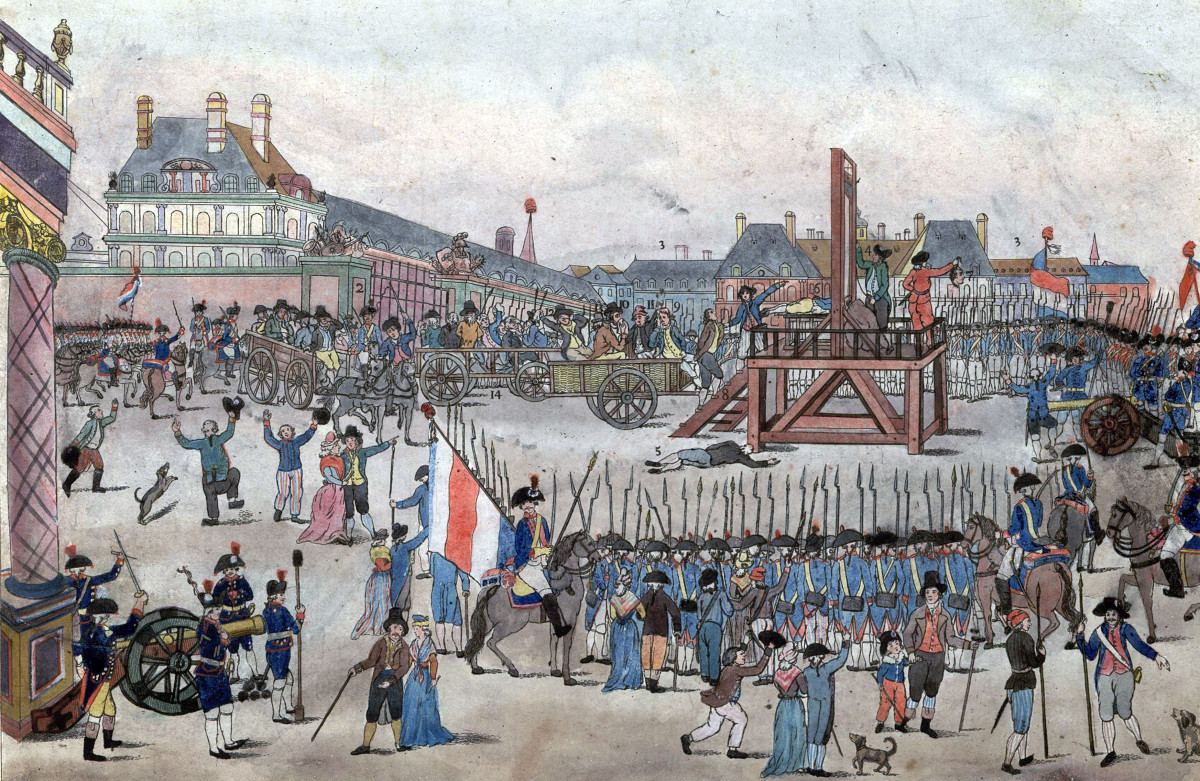
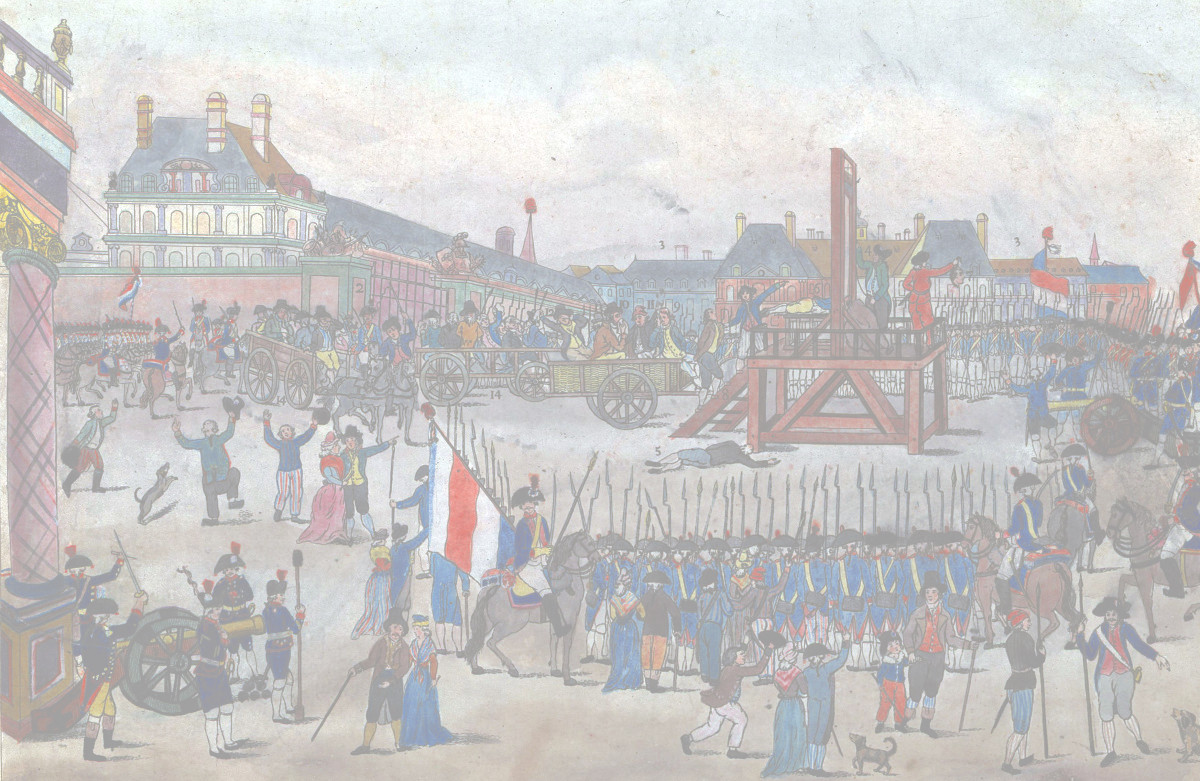
styling, timers, hide/show, html updates

diff --git a/index.html b/index.html
@@ -4,7 +4,7 @@
     <meta charset="UTF-8">
     <meta name="viewport" content="width=device-width, initial-scale=1.0">
     <meta http-equiv="X-UA-Compatible" content="ie=edge">
-    <link rel="stylesheet" href="assets/css/reset.css">
+    <!-- <link rel="stylesheet" href="assets/css/reset.css"> -->
     <link rel="stylesheet" href="assets/css/style.css">
     <title>Trivia Game!</title>
 </head>
@@ -12,26 +12,39 @@
 
     <script type="text/javascript" src="https://cdnjs.cloudflare.com/ajax/libs/jquery/3.2.1/jquery.min.js"></script>
     
-    <h1 id="title">French Revolution Trivia Game!</h1>
+    <div id="page1">
 
-    <div class="question-section">
-        <div class="questions"></div>
-        <div class="questions"></div>
-        <div class="questions"></div>
-        <div class="questions"></div>
-    </div>
+        <h1 id="title">French Revolution Trivia Game!</h1>
 
-    <div class="time-remaining"></div>
+        <div class="time-remaining"></div>
 
-    <div class="wins-losses"></div>
+        <div class="question-section">
+            <!-- <input type="radio" id="r1" name="rate" value="Fixed Rate"> Fixed Rate
+            <input type="radio" id="r2" name="rate" value="Variable Rate"> Variable Rate
+            <input type="radio" id="r3" name="rate" value="Multi Rate"> Multi Rate  -->
+        </div>
 
-    <!-- All Done! -->
-    <!-- correct answers -->
-    <!-- incorrect answers -->
-    <!-- unanswered -->
+        <div class="button">
+            <button id="submit">Submit</button>
+        </div>
 
-    <div class="button">
-        <button id="button1">Submit</button>
+    </div>  
+
+
+    <div id="page2">
+        <!-- All Done! -->
+        <h1 id="title2">All Done!</h1>
+        <!-- correct answers -->
+        <div id="correct-answers">Correct Answers</div> 
+        <!-- incorrect answers -->
+        <div id="incorrect-answers">Incorrect Answers</div>
+        <!-- unanswered -->
+        <div id="unanswered">Unanswered Questions</div>
+        <!-- wins and losses -->
+        <div class="wins-losses">Wins: <br><br>Losses: </div>
+        <div class="button2">
+            <button id="play-again">Play Again</button>
+        </div>
     </div>
 
     <script type="text/javascript" src="assets/javascript/app.js"></script>

diff --git a/assets/javascript/app.js b/assets/javascript/app.js
@@ -1,11 +1,79 @@
 $(document).ready(function() {
 
+    var time = 30;
+    var intervalId;
+    var wins = 0;
+    var losses = 0;
+    var correct = 0;
+    var incorrect = 0;
+    var unanswered = 0;
+
+    function hidePage2() {
+        $("#page2").hide();
+    }
+
+    hidePage2();
+
+    function showPage2() {
+        $("#page2").show();
+    }
+
+    function hidePage1() {
+        $("#page1").hide();
+    }
+
+    function showPage1() {
+        $("#page1").show();
+    }
+
+    // $("#title2").hide();
+    // $("#correct-answers").hide(); 
+    // $("#incorrect-answers").hide();
+    // $("#unanswered").hide();
+    // $(".button2").hide();
+
+    // function that starts the clock
+    function run() {
+        intervalId = setInterval(decrement, 1000);
+    }  
+
+    run();
+
+    function stop() {
+        clearInterval(intervalId);
+      }
+
+    // function that counts down the seconds
+    function decrement() {
+        time--;
+        $(".time-remaining").html("<h2>Time Remaining: " + time + " seconds </h2>");
+        if (time === 0) {
+            stop();
+            alert("Time's Up!")
+        }
+    }
+
+    // function that sets time back to 30 seconds
+    function resetTime() {
+        time = 30000;
+    }
+
         //  Start on click.
-        $("#button1").on("click", function() {
-            //  Set the button alert's timeout to run three seconds after the function's called.
-            testAlert = setTimeout(function() {
-            alert("Test Alert.");
-            }, 1000);
+        $("#submit").on("click", function() {
+            hidePage1();
+            showPage2();
+            // clear page contents
+            // check if all the questions are correct
+            // increase wins or losses, and display those
+            // display counts for correct, incorrect, and unanswered
+        });
+
+        //  Start on click.
+        $("#play-again").on("click", function() {
+            // reload 
+            // hide all previous elements
+            // increase wins or losses, and display those
+            // display counts for correct, incorrect, and unanswered
         });
 
 });

diff --git a/assets/css/reset.css b/assets/css/reset.css
@@ -1,0 +1,48 @@
+/* http://meyerweb.com/eric/tools/css/reset/ 
+   v2.0 | 20110126
+   License: none (public domain)
+*/
+
+html, body, div, span, applet, object, iframe,
+h1, h2, h3, h4, h5, h6, p, blockquote, pre,
+a, abbr, acronym, address, big, cite, code,
+del, dfn, em, img, ins, kbd, q, s, samp,
+small, strike, strong, sub, sup, tt, var,
+b, u, i, center,
+dl, dt, dd, ol, ul, li,
+fieldset, form, label, legend,
+table, caption, tbody, tfoot, thead, tr, th, td,
+article, aside, canvas, details, embed, 
+figure, figcaption, footer, header, hgroup, 
+menu, nav, output, ruby, section, summary,
+time, mark, audio, video {
+	margin: 0;
+	padding: 0;
+	border: 0;
+	font-size: 100%;
+	font: inherit;
+	vertical-align: baseline;
+}
+/* HTML5 display-role reset for older browsers */
+article, aside, details, figcaption, figure, 
+footer, header, hgroup, menu, nav, section {
+	display: block;
+}
+body {
+	line-height: 1;
+}
+ol, ul {
+	list-style: none;
+}
+blockquote, q {
+	quotes: none;
+}
+blockquote:before, blockquote:after,
+q:before, q:after {
+	content: '';
+	content: none;
+}
+table {
+	border-collapse: collapse;
+	border-spacing: 0;
+}

diff --git a/assets/css/style.css b/assets/css/style.css
@@ -1,0 +1,16 @@
+body {
+    background-image: url("../images/french-revolution2.jpg");
+    opacity: 75%
+}
+
+#page1, #page2 {
+    background-color: white;
+    opacity: 0.8;
+    width: 800px;
+    margin-left: 20%;
+    margin-right: 20%;
+}
+
+#title, .time-remaining {
+    text-align: center
+}
